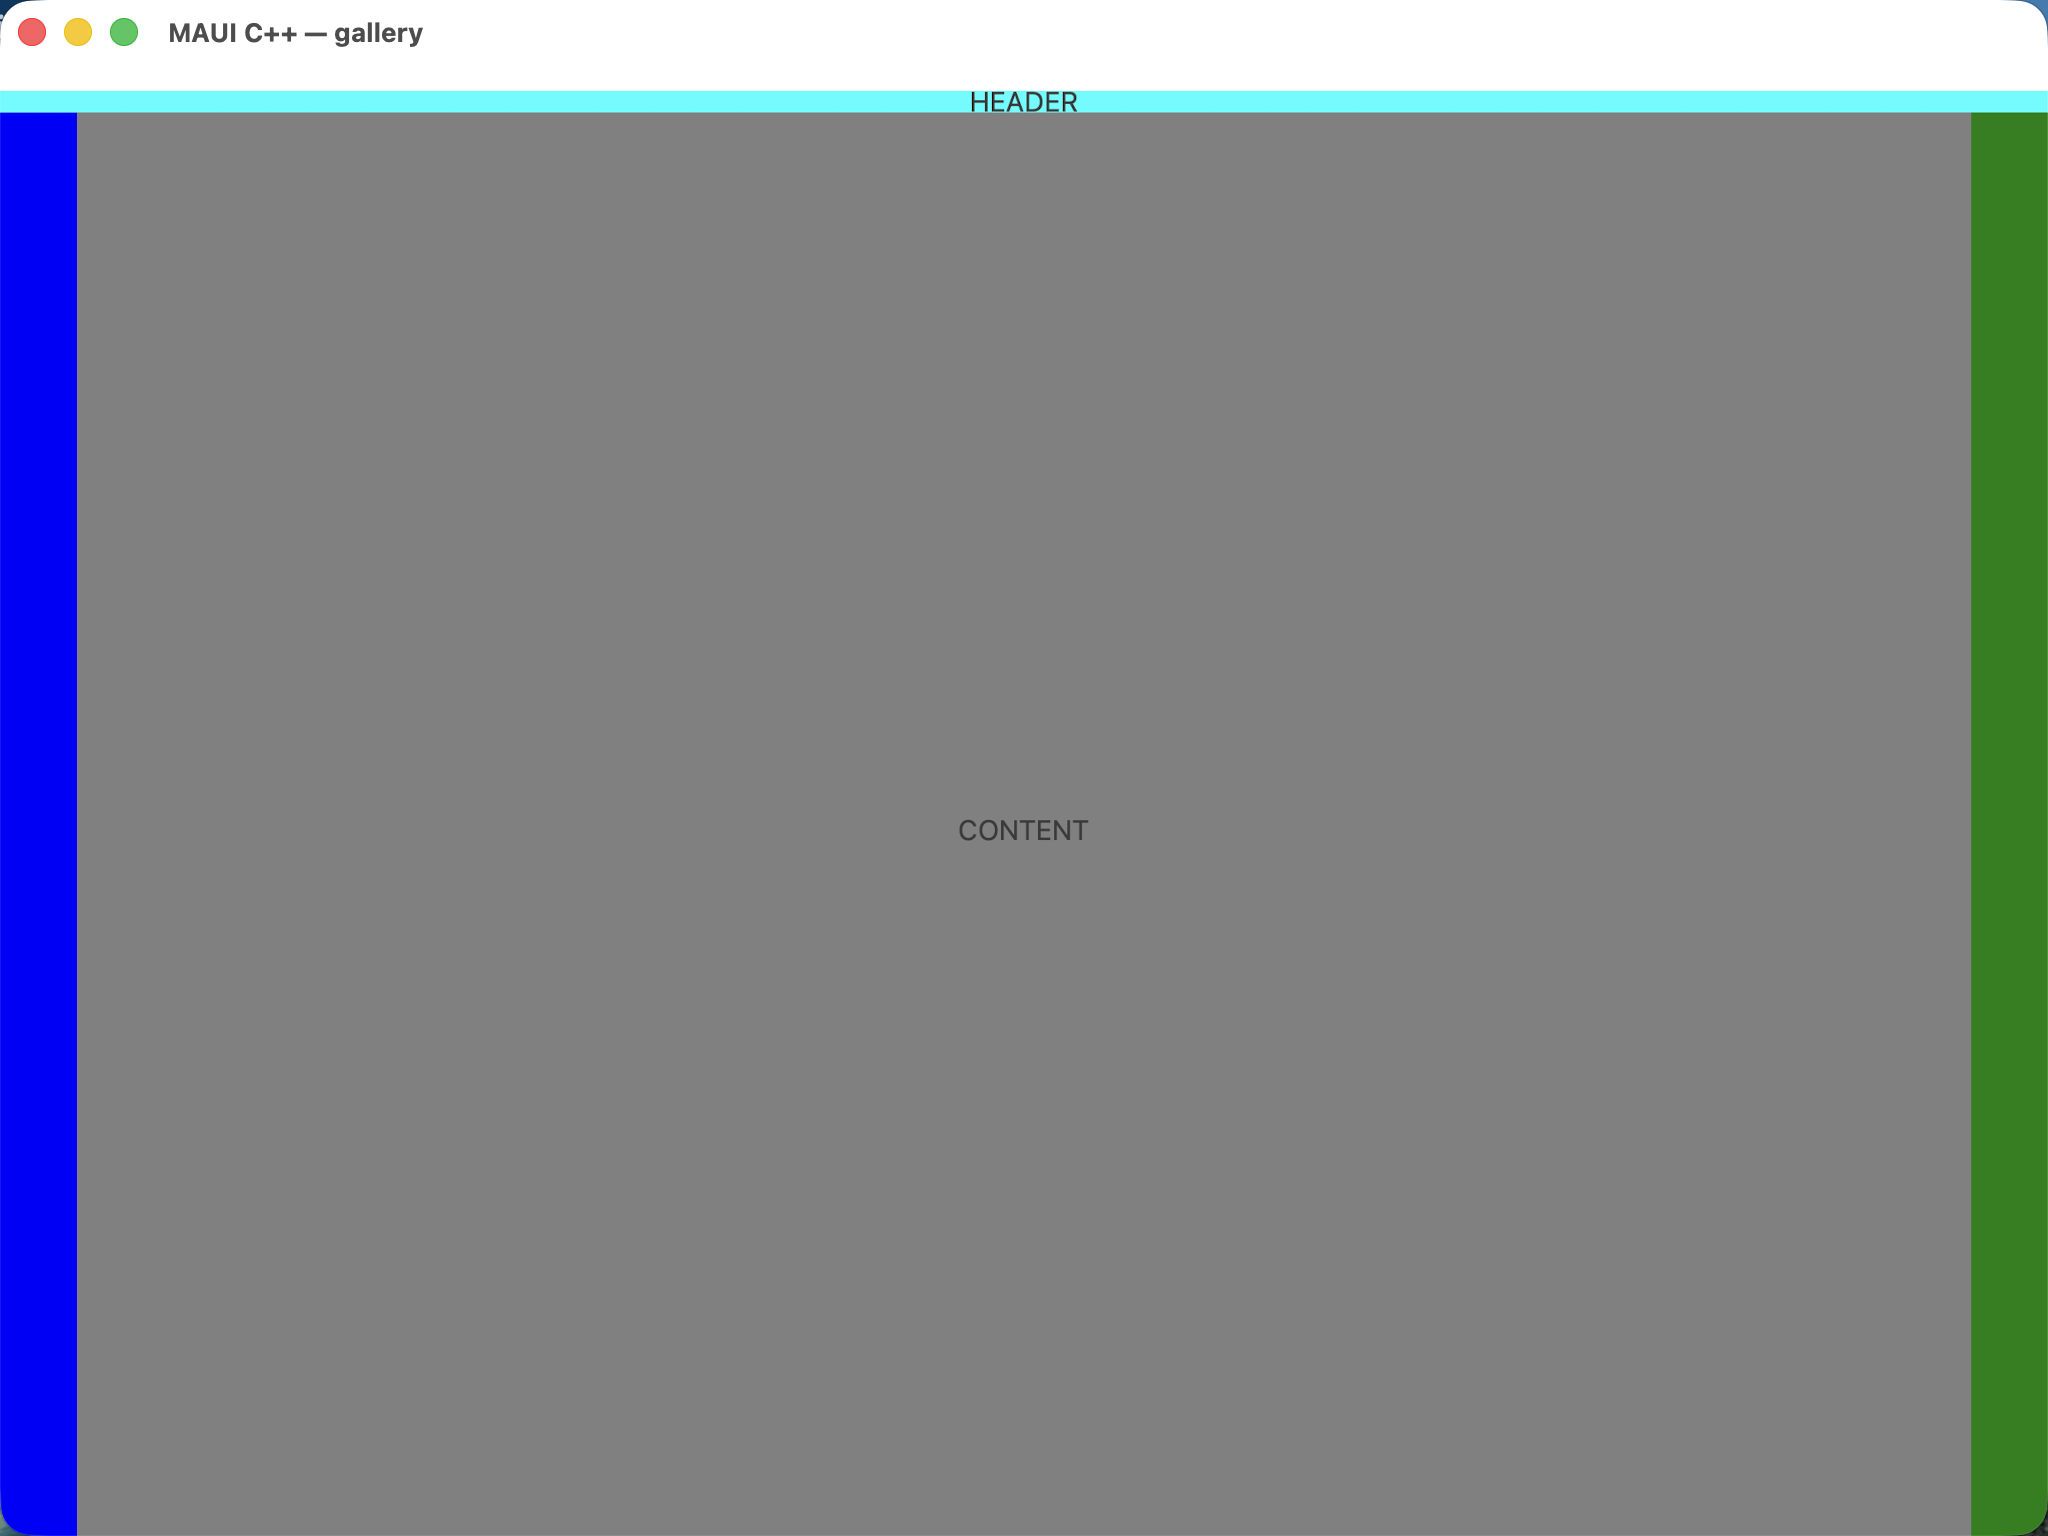
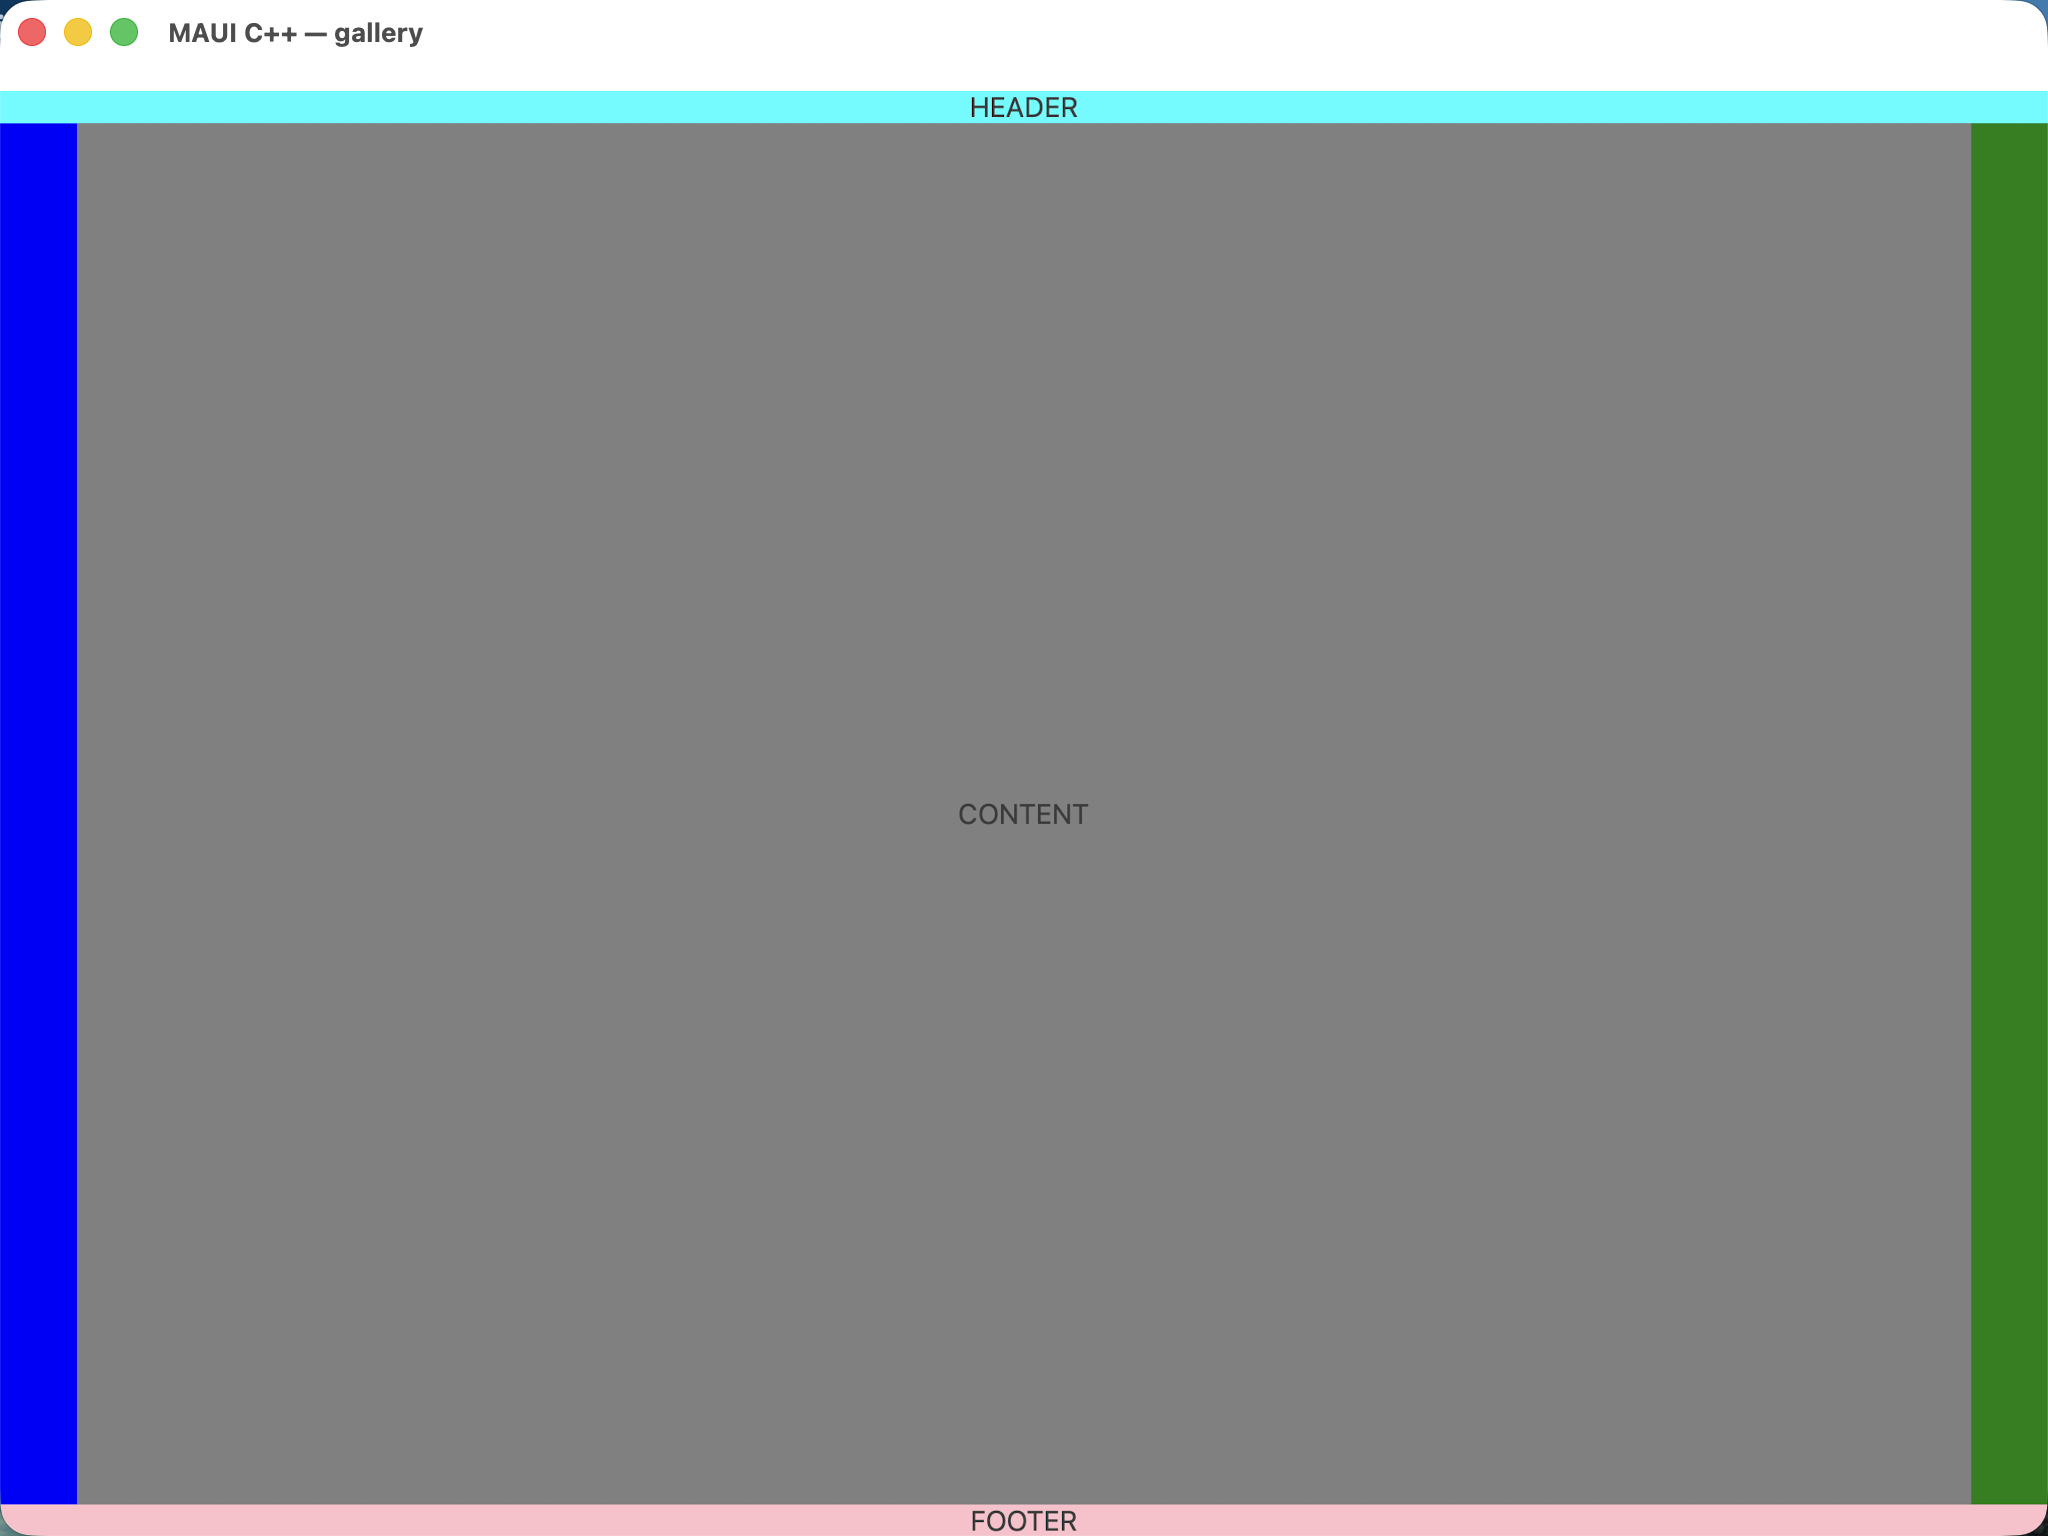
fix(flex): measure a nested grow flex_layout child with the main axis unconstrained
flex_layout_page rendered its pink FOOTER below the window: the body (a flex ROW with Grow=1) inside the
outer flex COLUMN over-measured its basis to the full column height, overflowing so the footer spilled
off-bottom. Root cause: C# FlexLayout grafts a nested FlexLayout's own _root into the parent flex tree and
only sets SelfSizing on NON-flex children (FlexLayout.cs); the port instead measures EVERY child as a leaf
via engine_constraints(), which walks up to the parent's width AND height — including the column's MAIN
axis (height). Measured with height=600 and AlignItems=Stretch, the nested row inflated to 600 instead of
its ~content height, so free-space went negative → shrink + footer overflow.

Measure a nested flex_layout child with the engine's incoming frame dims instead (cross = parent-cross-size,
main = 0 → +inf via the existing 0→inf rule), i.e. the flexbox max-content basis: main axis unconstrained,
cross axis constrained. Non-flex leaves keep engine_constraints (they don't stretch on the main axis, so
that value is inert — behavior unchanged).

Verified headless: 40/40 flex tests pass incl. a new regression guard
(nested_grow_flex_child_keeps_trailing_sibling: body grows to 600-14-14=572, footer pinned at y=586).
Catalyst: flex_layout now renders HEADER / body / FOOTER matching MAUI. Shared cross-platform code — the
fix is spec-correct and only changes nested-flex children, so iOS/Android nested-flex pages get the same
[…]

Changed region(s): [[0.0, 0.9688, 1.0, 1.0], [0.0, 0.0625, 1.0, 0.0938], [0.4688, 0.5, 0.5312, 0.5625]]

diff --git a/port/cpp/src/controls/flex_layout.cpp b/port/cpp/src/controls/flex_layout.cpp
@@ -143,11 +143,23 @@ namespace maui::controls
             // would supply its own root as the item and skip this; the port treats every child as a leaf
             // for measurement (nested flex layouts still measure correctly through the child's own manager).
             maui::core::i_view* child_ptr = &child;
-            item->self_sizing = [child_ptr](maui::layouts::flex::item& it, float& w, float& h, bool measure_mode) {
+            const bool child_is_flex = dynamic_cast<flex_layout*>(child_ptr) != nullptr;
+            item->self_sizing = [child_ptr, child_is_flex](maui::layouts::flex::item& it, float& w, float& h,
+                                                           bool measure_mode) {
                 maui::graphics::size request;
                 if (measure_mode)
                 {
-                    maui::graphics::size constraints = engine_constraints(it);
+                    // C# grafts a nested FlexLayout's own root into the parent tree and only self-sizes
+                    // NON-flex children (FlexLayout.cs). The port measures every child as a leaf, so a NESTED
+                    // flex_layout must be measured with the parent's MAIN axis UNCONSTRAINED (the flexbox
+                    // max-content basis) — otherwise align-items=stretch inflates it to the full main-axis
+                    // constraint and it overflows the parent (e.g. flex_layout_page's footer spilling below
+                    // the window). The engine's incoming frame dims already carry cross = parent-cross-size
+                    // and main = 0; the 0→inf rule then unconstrains only the main axis. A non-flex leaf keeps
+                    // the walk-up-the-parents constraint (leaves don't stretch, so the main-axis value is inert).
+                    maui::graphics::size constraints =
+                        child_is_flex ? maui::graphics::size{static_cast<double>(w), static_cast<double>(h)}
+                                      : engine_constraints(it);
                     // C#: a 0 constraint in measure mode becomes +inf (measure unconstrained).
                     constraints.width =
                         (constraints.width == 0) ? std::numeric_limits<double>::infinity() : constraints.width;

diff --git a/port/cpp/tests/controls/flex_layout_tests.cpp b/port/cpp/tests/controls/flex_layout_tests.cpp
@@ -155,6 +155,46 @@ namespace
         EXPECT_EQ(child.last_arrange, rect(0, 0, 100, 100));
     }
 
+    // A NESTED grow flex_layout (a flex row as a grow child of a flex column) must measure its content
+    // height with the column's MAIN axis unconstrained, not stretch to the full height — else it overflows
+    // and trailing siblings spill below (regression guard for flex_layout_page's missing footer).
+    TEST(flex_layout_control, nested_grow_flex_child_keeps_trailing_sibling)
+    {
+        flex_layout outer;
+        outer.set_direction(flex_direction::column);
+        mock_view header;
+        header.configure({400, 14});
+        mock_view footer;
+        footer.configure({400, 14});
+
+        flex_layout body; // nested flex ROW that grows to fill the column's slack
+        body.set_direction(flex_direction::row);
+        mock_view content;
+        content.configure({100, 14});
+        mock_view nav;
+        nav.configure({50, 0});
+        mock_view aside;
+        aside.configure({50, 0});
+        body.add(content);
+        body.set_grow(content, 1.0F);
+        body.add(nav);
+        body.set_basis(nav, flex_basis{50.0F, false});
+        body.add(aside);
+        body.set_basis(aside, flex_basis{50.0F, false});
+
+        outer.add(header);
+        outer.add(body);
+        outer.set_grow(body, 1.0F);
+        outer.add(footer);
+
+        outer.measure(400, 600);
+        outer.arrange(rect(0, 0, 400, 600));
+
+        // header at the top, body grows to the free space (600 - 14 - 14 = 572), footer pinned at the bottom.
+        EXPECT_EQ(header.last_arrange, rect(0, 0, 400, 14));
+        EXPECT_EQ(footer.last_arrange, rect(0, 586, 400, 14));
+    }
+
     // ---- handler seam ----
 
     TEST(flex_layout_seam, panel_child_count_tracks_mutations)
